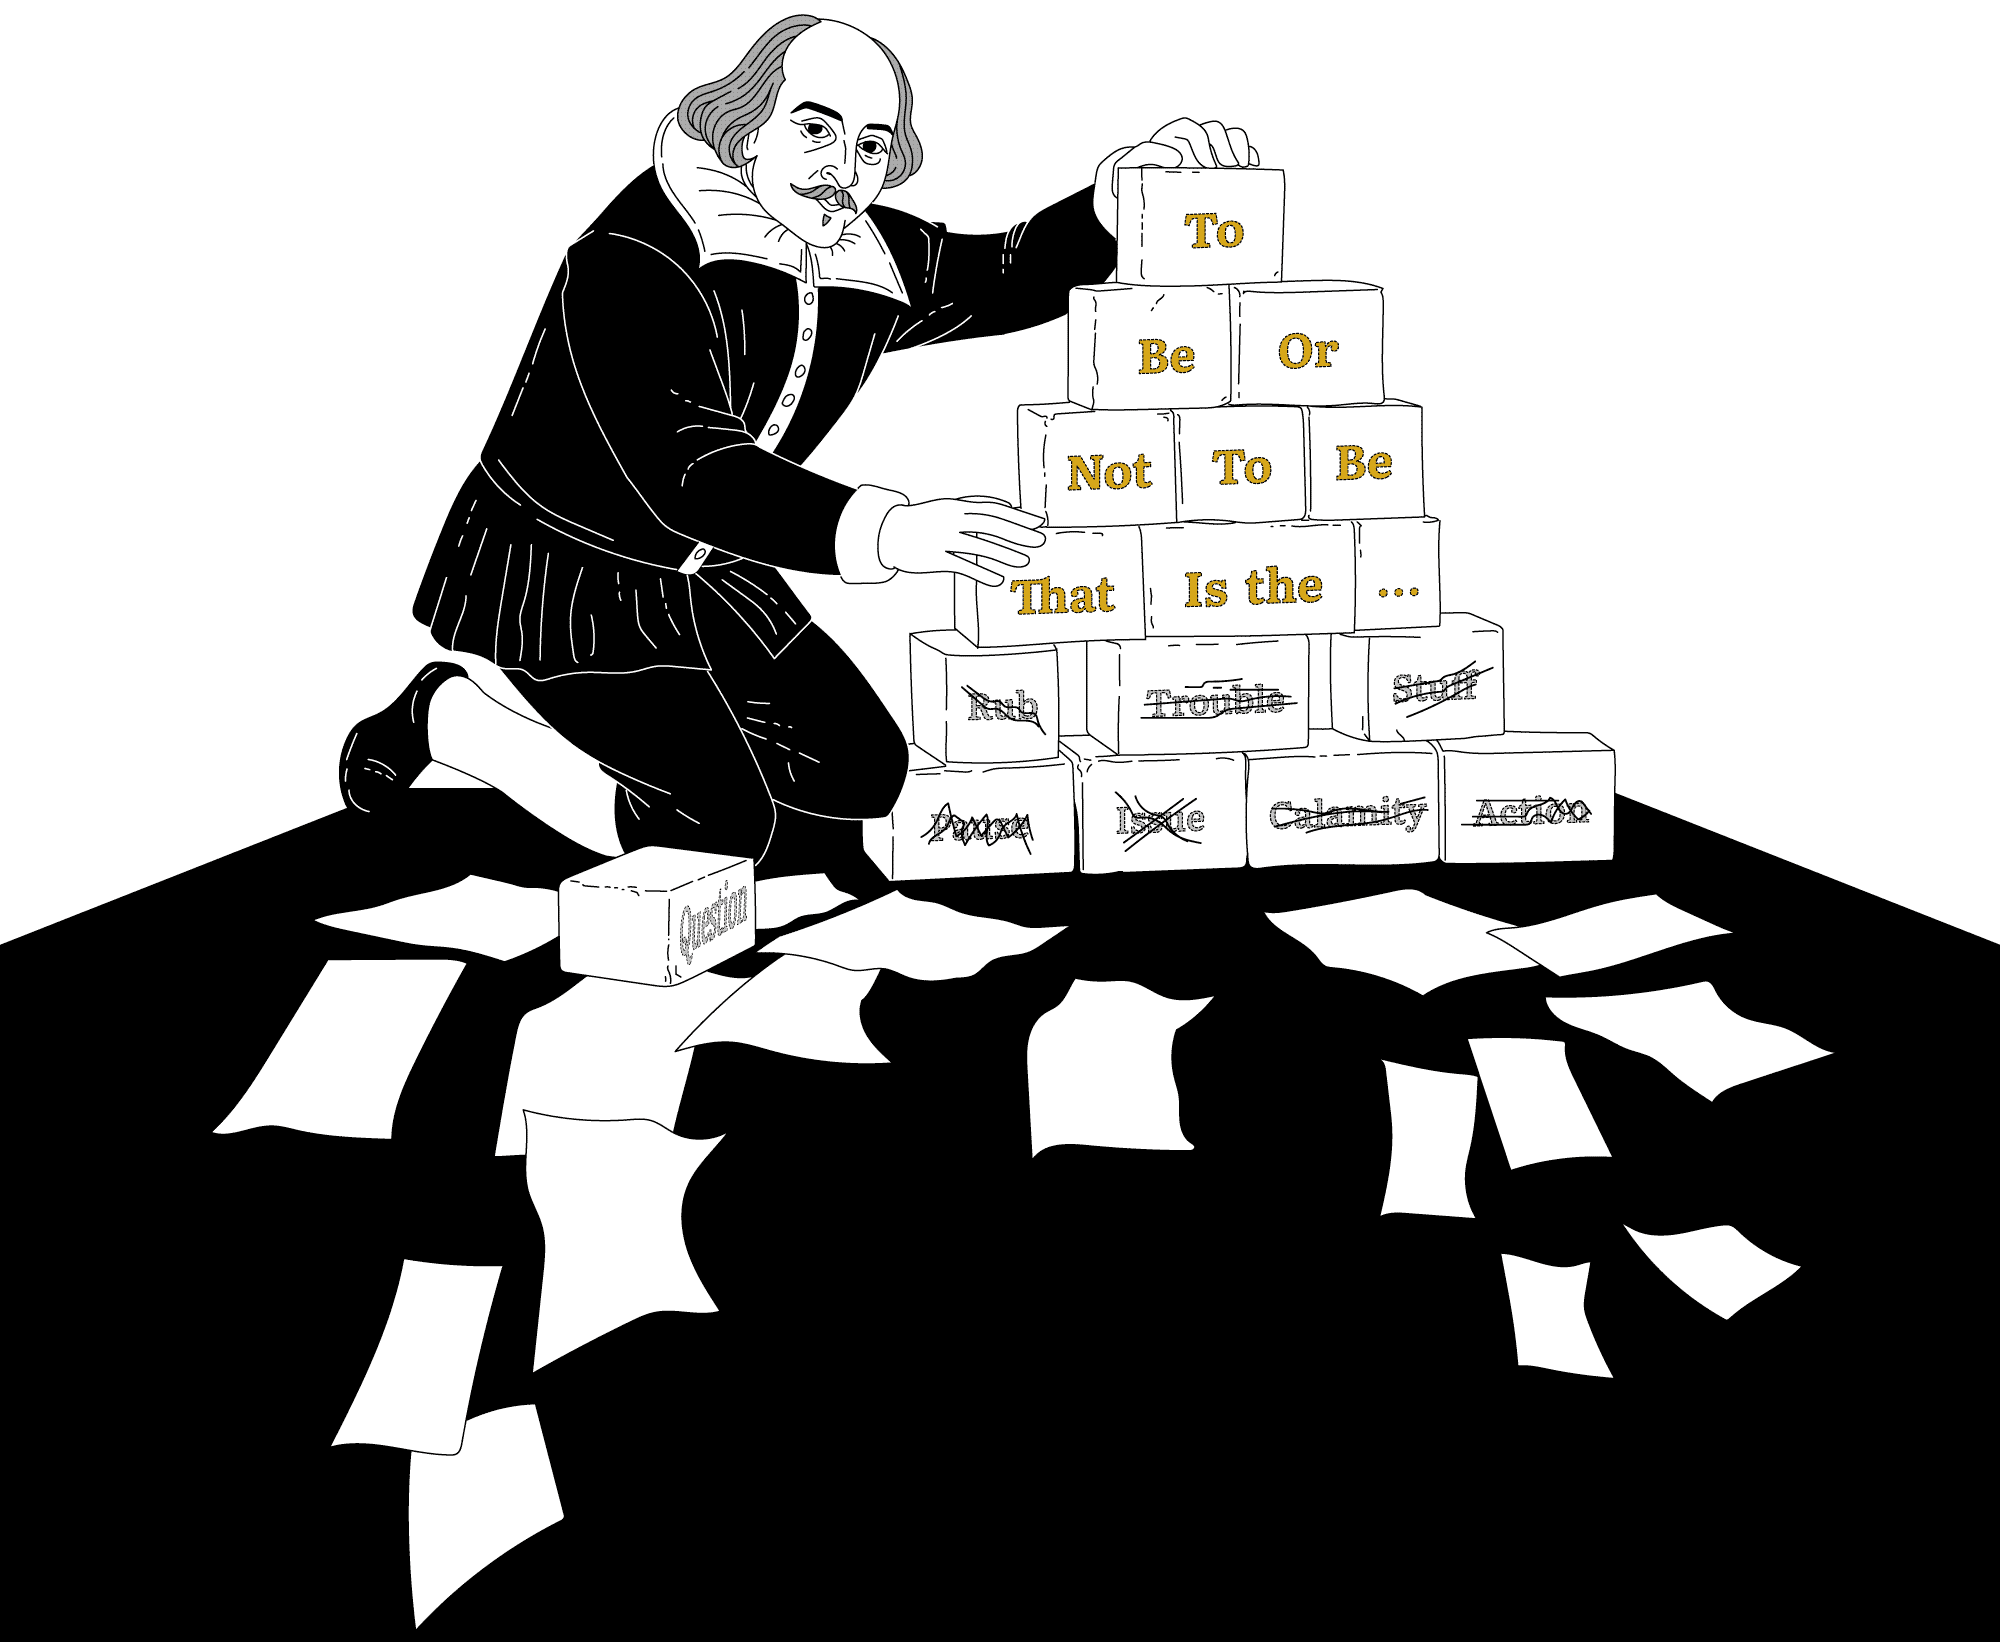
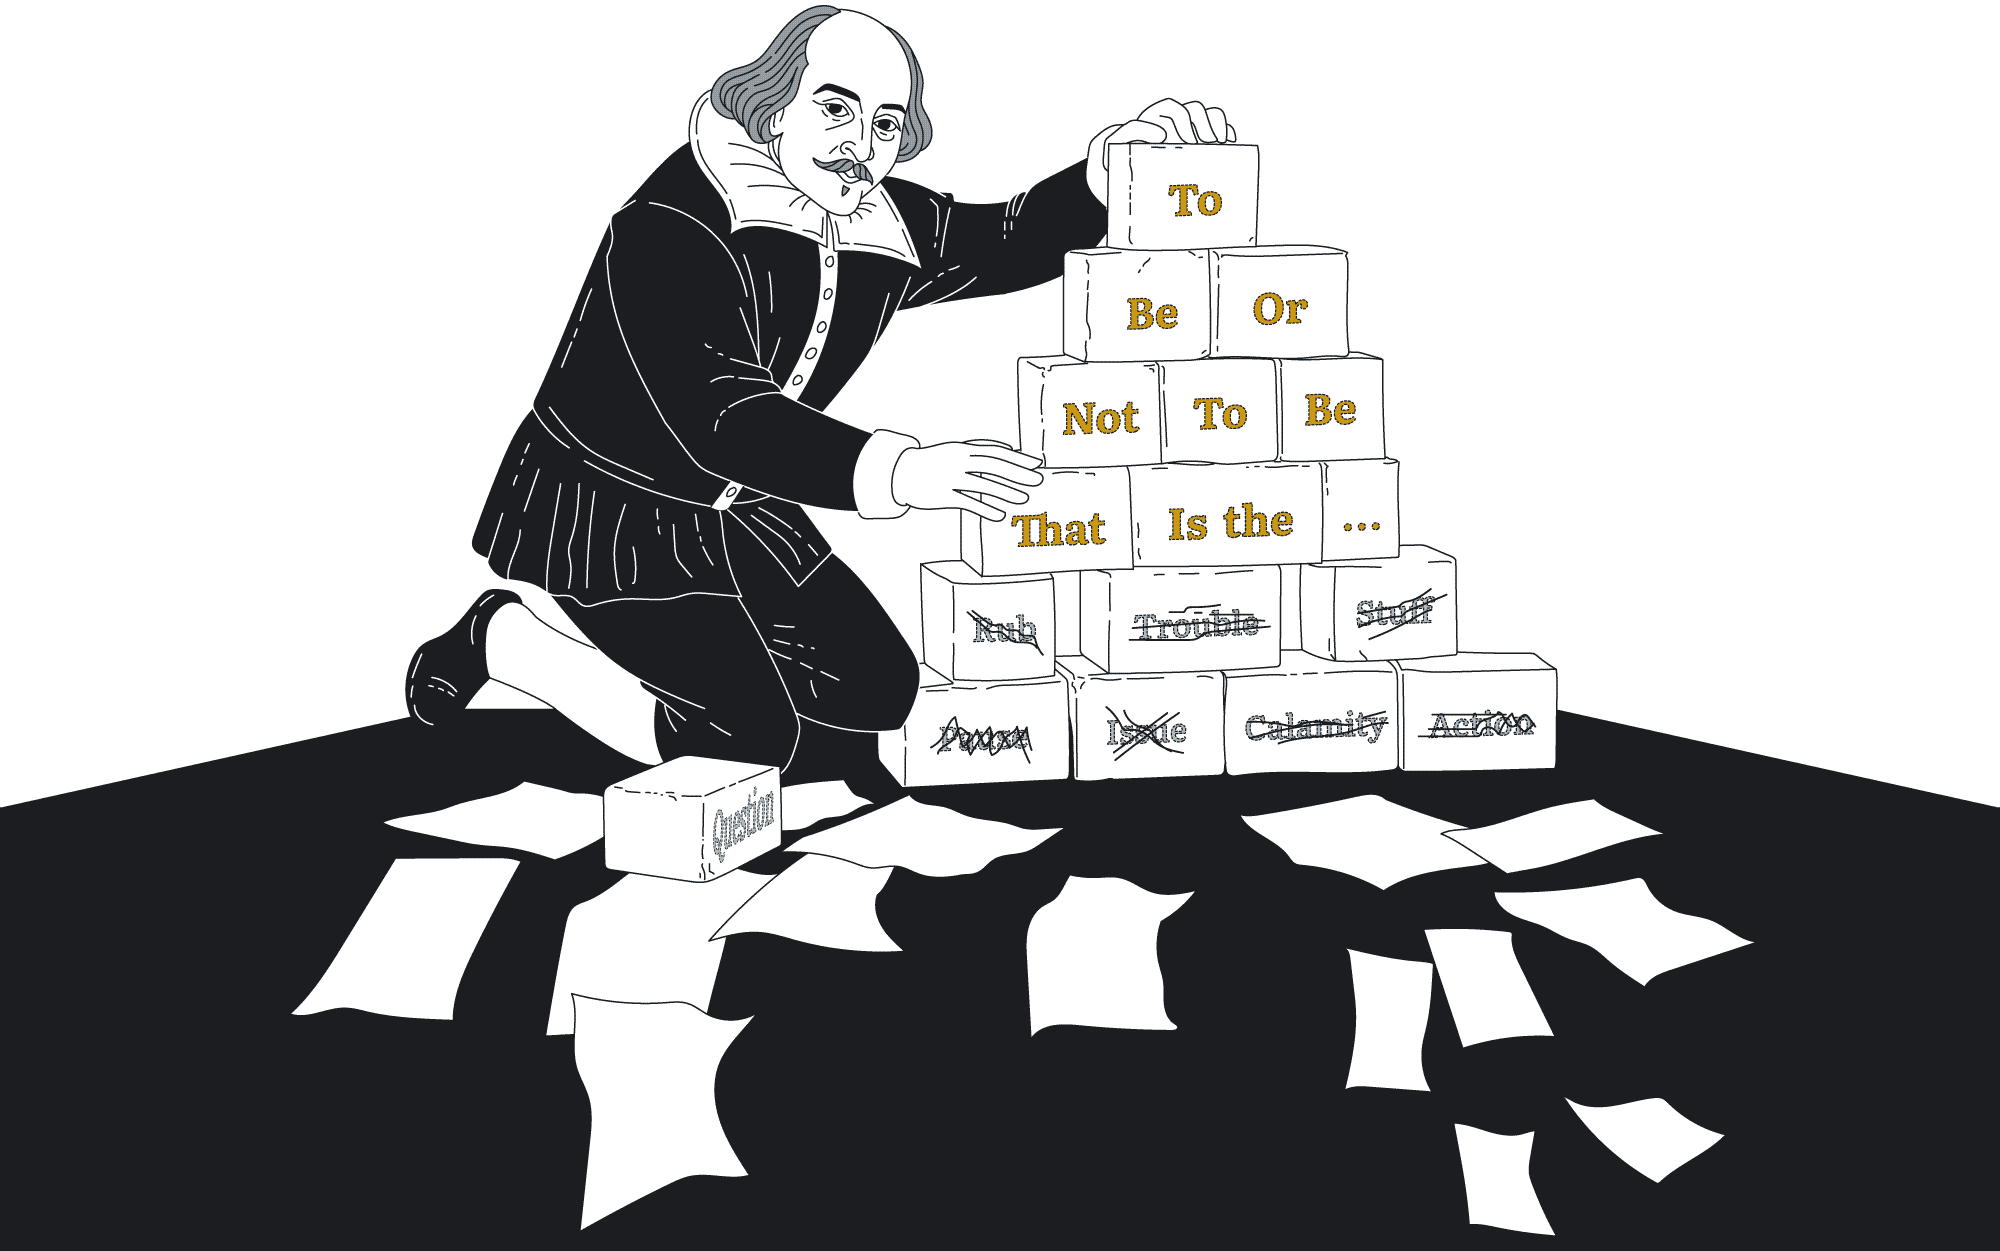
design: switching solid black bg color to dark gray for less buzziness. testing illo color swap  with Shakespeare topper

diff --git a/src/styles/app.css b/src/styles/app.css
@@ -66,6 +66,9 @@
 		--1s: 1s;
 	}
 }
+body{
+	overflow-x: hidden;
+}
 
 h1 {
 	font-size: var(--48px, 48px);
@@ -153,13 +156,31 @@ section > *:not(.graphic) {
 
 #adjectives,
 #irony{
-	background: #000;
-	color: #FFF;
+	position: relative;
+	background: #1A1D21;
+	color: #D1D2D3;
+}
+/* These are needed for the section illo bgs */
+#adjectives::before,
+#irony::before{
+	z-index: 0;
+	content: '';
+	position: absolute;
+	width: 100%;
+	height: 404px;
+	background: #FFF;
+	top: 0;
+	left: 0;
+	margin: auto;
 }
 #irony{
 	position: relative;
 	margin-bottom: 60px;
 }
+#irony::before{
+	height: 456px;
+}
+/* Used for bg under last falling pages */
 #irony::after{
 	content: '';
 	position: absolute;
@@ -170,33 +191,23 @@ section > *:not(.graphic) {
 	margin: auto;
 }
 #adjectives h2{
-	-webkit-text-stroke: 15px #000;
+	-webkit-text-stroke: 10px #1A1D21;
 	paint-order: stroke fill;
 	position: relative;
 	z-index: 2;
 }
+/* Section illos */
 #adjectives img:nth-of-type(1),
 #nouns img:nth-of-type(1),
 #irony img:nth-of-type(1),
 #irony img:nth-last-of-type(2){
-	width: 100%;
-	max-width: none;
-	margin-bottom: -80px;
-}
-#irony img:nth-of-type(1),
-#irony img:last-of-type{
-	margin-bottom: 0;
-}
-#irony img:nth-last-of-type(2){
-	max-height: 80vh;
-	min-height: 400px;
-}
-#irony img:nth-last-of-type(1){
 	z-index: 2;
 	position: relative;
-	width: 130px;
-	margin-top: -300px;
+	width: 100%;
+	max-width: 1000px;
+	margin-bottom: -80px;
 }
+/* Inline illos for 4 nouns */
 #specific img:nth-of-type(odd){
 	float: right;
 	max-width: 250px;
@@ -207,12 +218,34 @@ section > *:not(.graphic) {
 	max-width: 250px;
 	margin: 10px 10px 10px 20%;
 }
+/* Ending crosshatch and falling pages */
+#irony img:nth-of-type(1),
+#irony img:last-of-type{
+	margin-bottom: 0;
+}
+#irony img:nth-last-of-type(2){
+	max-width: none;
+	max-height: 80vh;
+	min-height: 400px;
+}
+#irony img:nth-last-of-type(1){
+	z-index: 2;
+	position: relative;
+	width: 130px;
+	margin-top: -300px;
+}
+@media screen and (max-width: 1000px) {
+	#adjectives::before,
+	#irony::before{
+		display: none;
+	}
+}
 @media screen and (min-width: 800px) {
 	p, li, blockquote, details {
 		font-size: var(--20px);
 	}
 }
-@media screen and (min-width: 500px) {
+@media screen and (max-width: 500px) {
 	#irony img:nth-last-of-type(1){
 		width: 100px;
 		margin-top: -300px;
